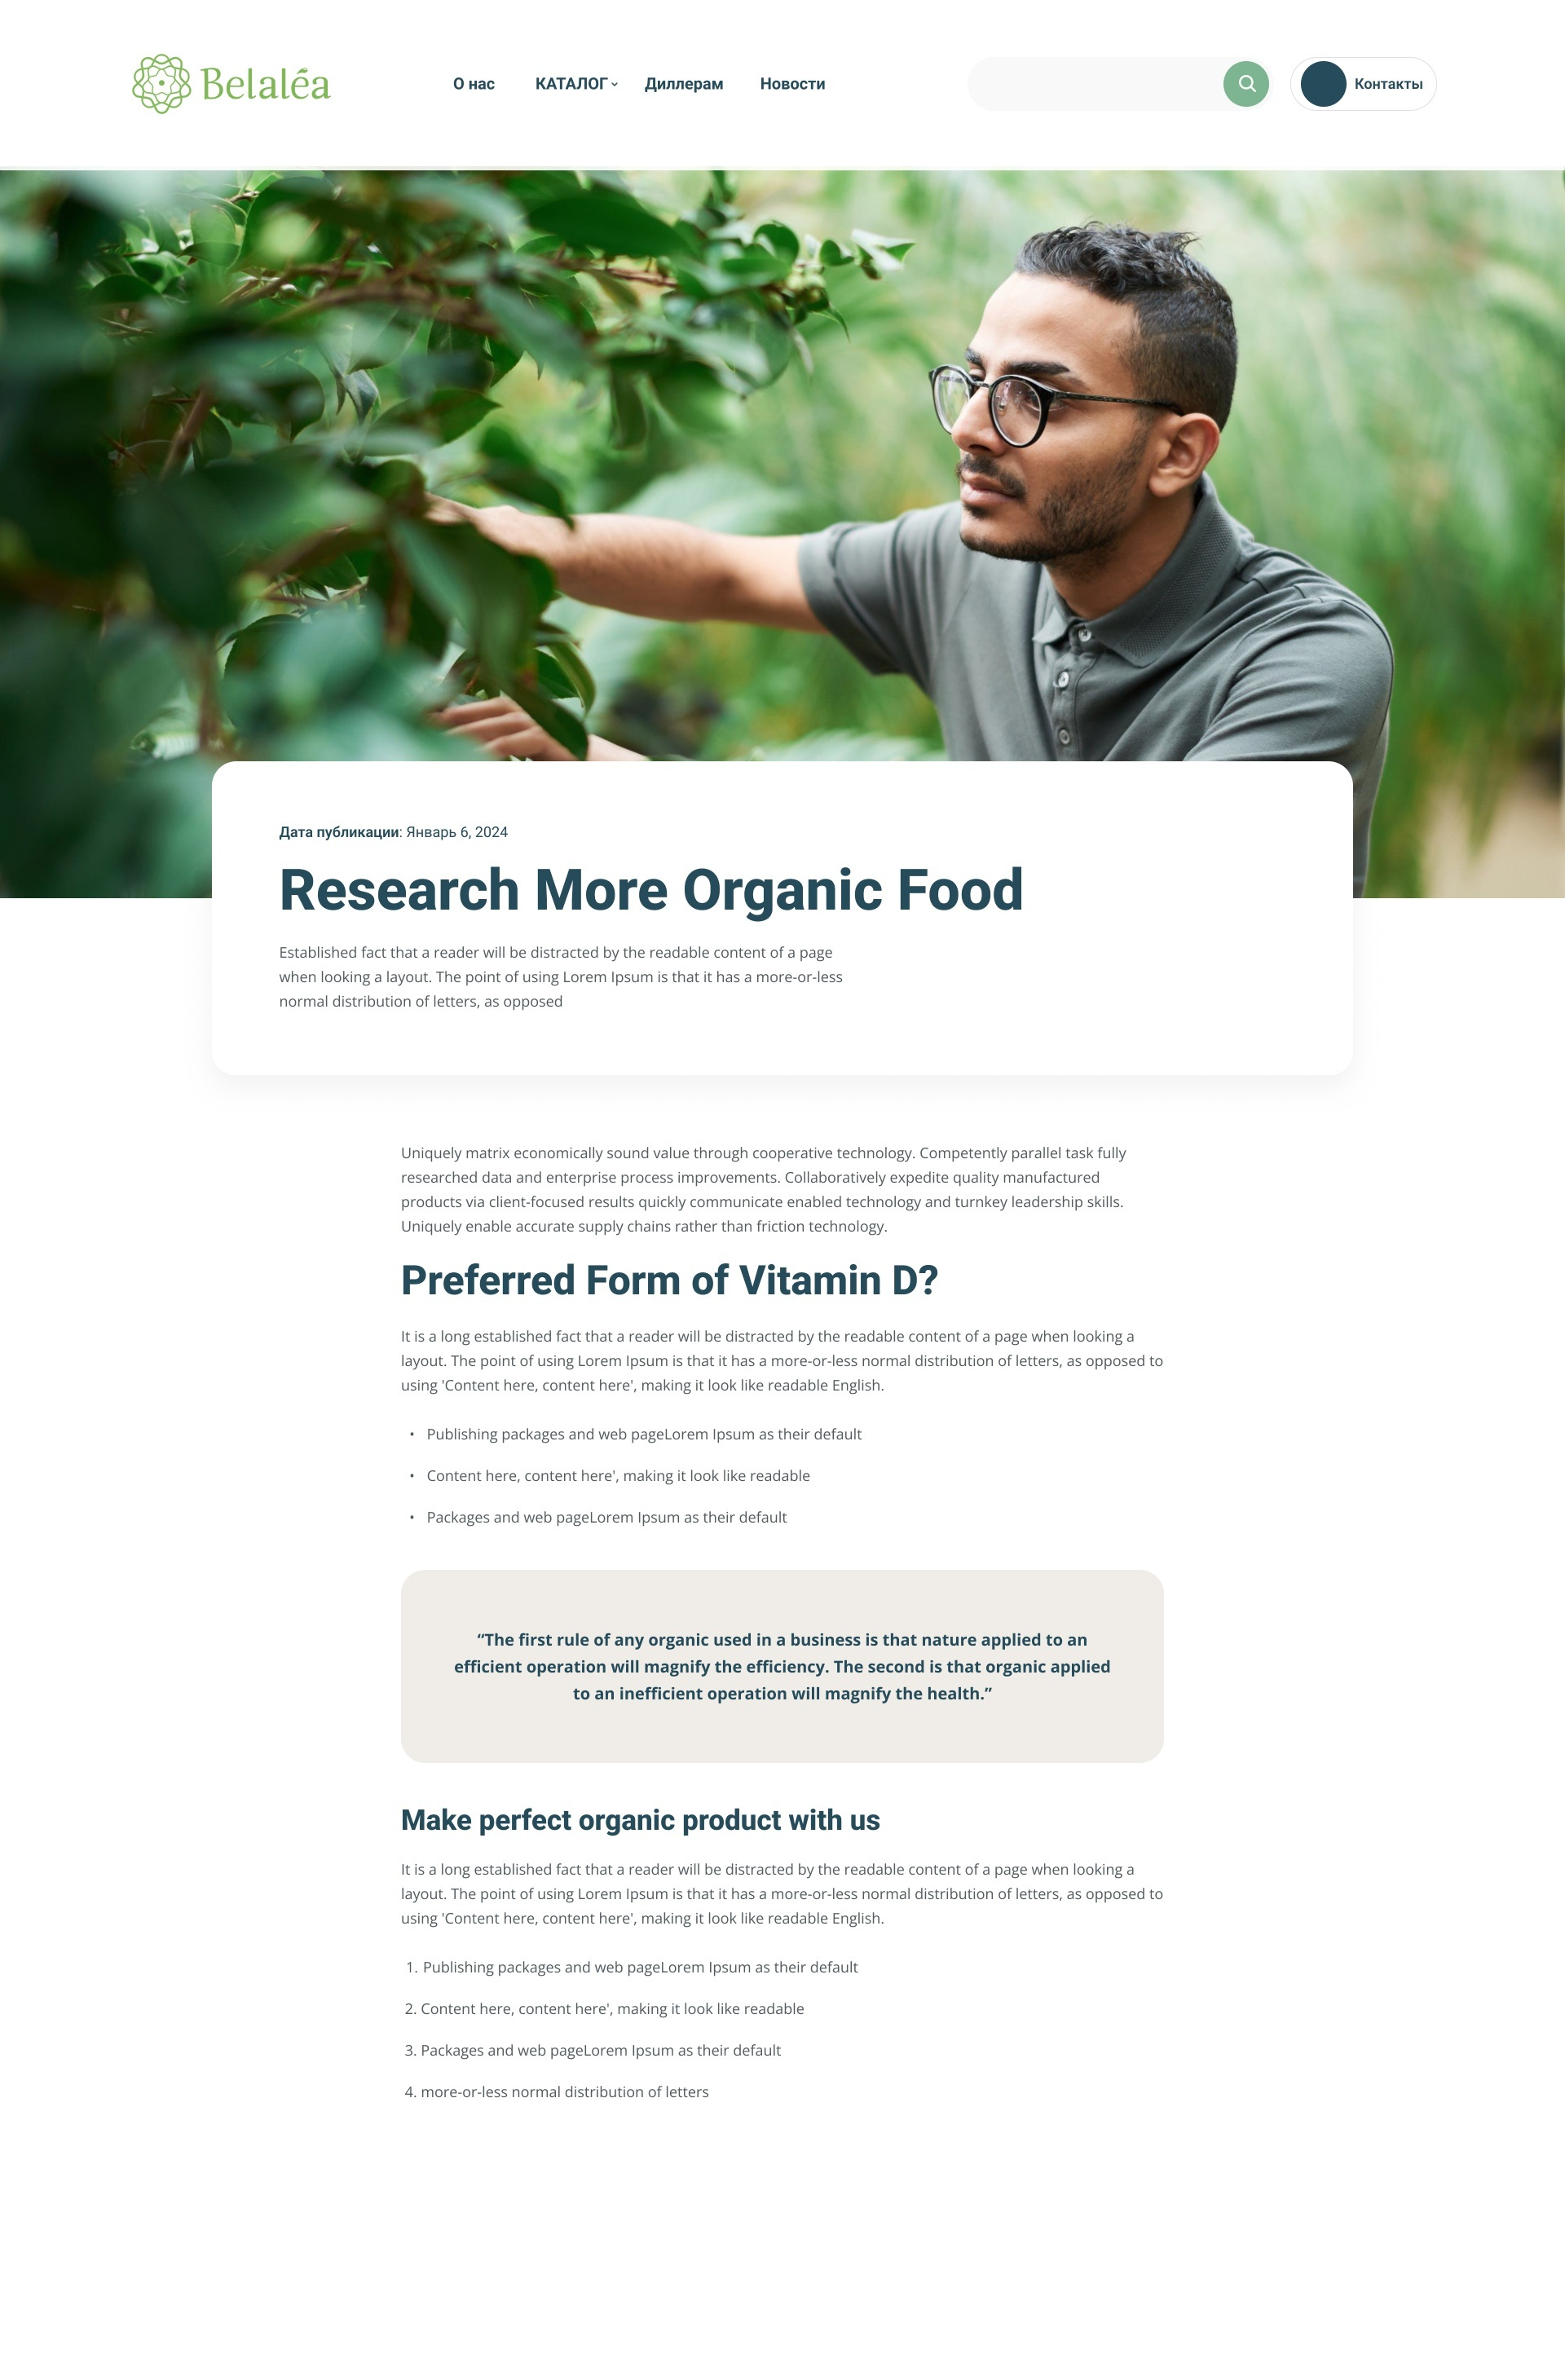
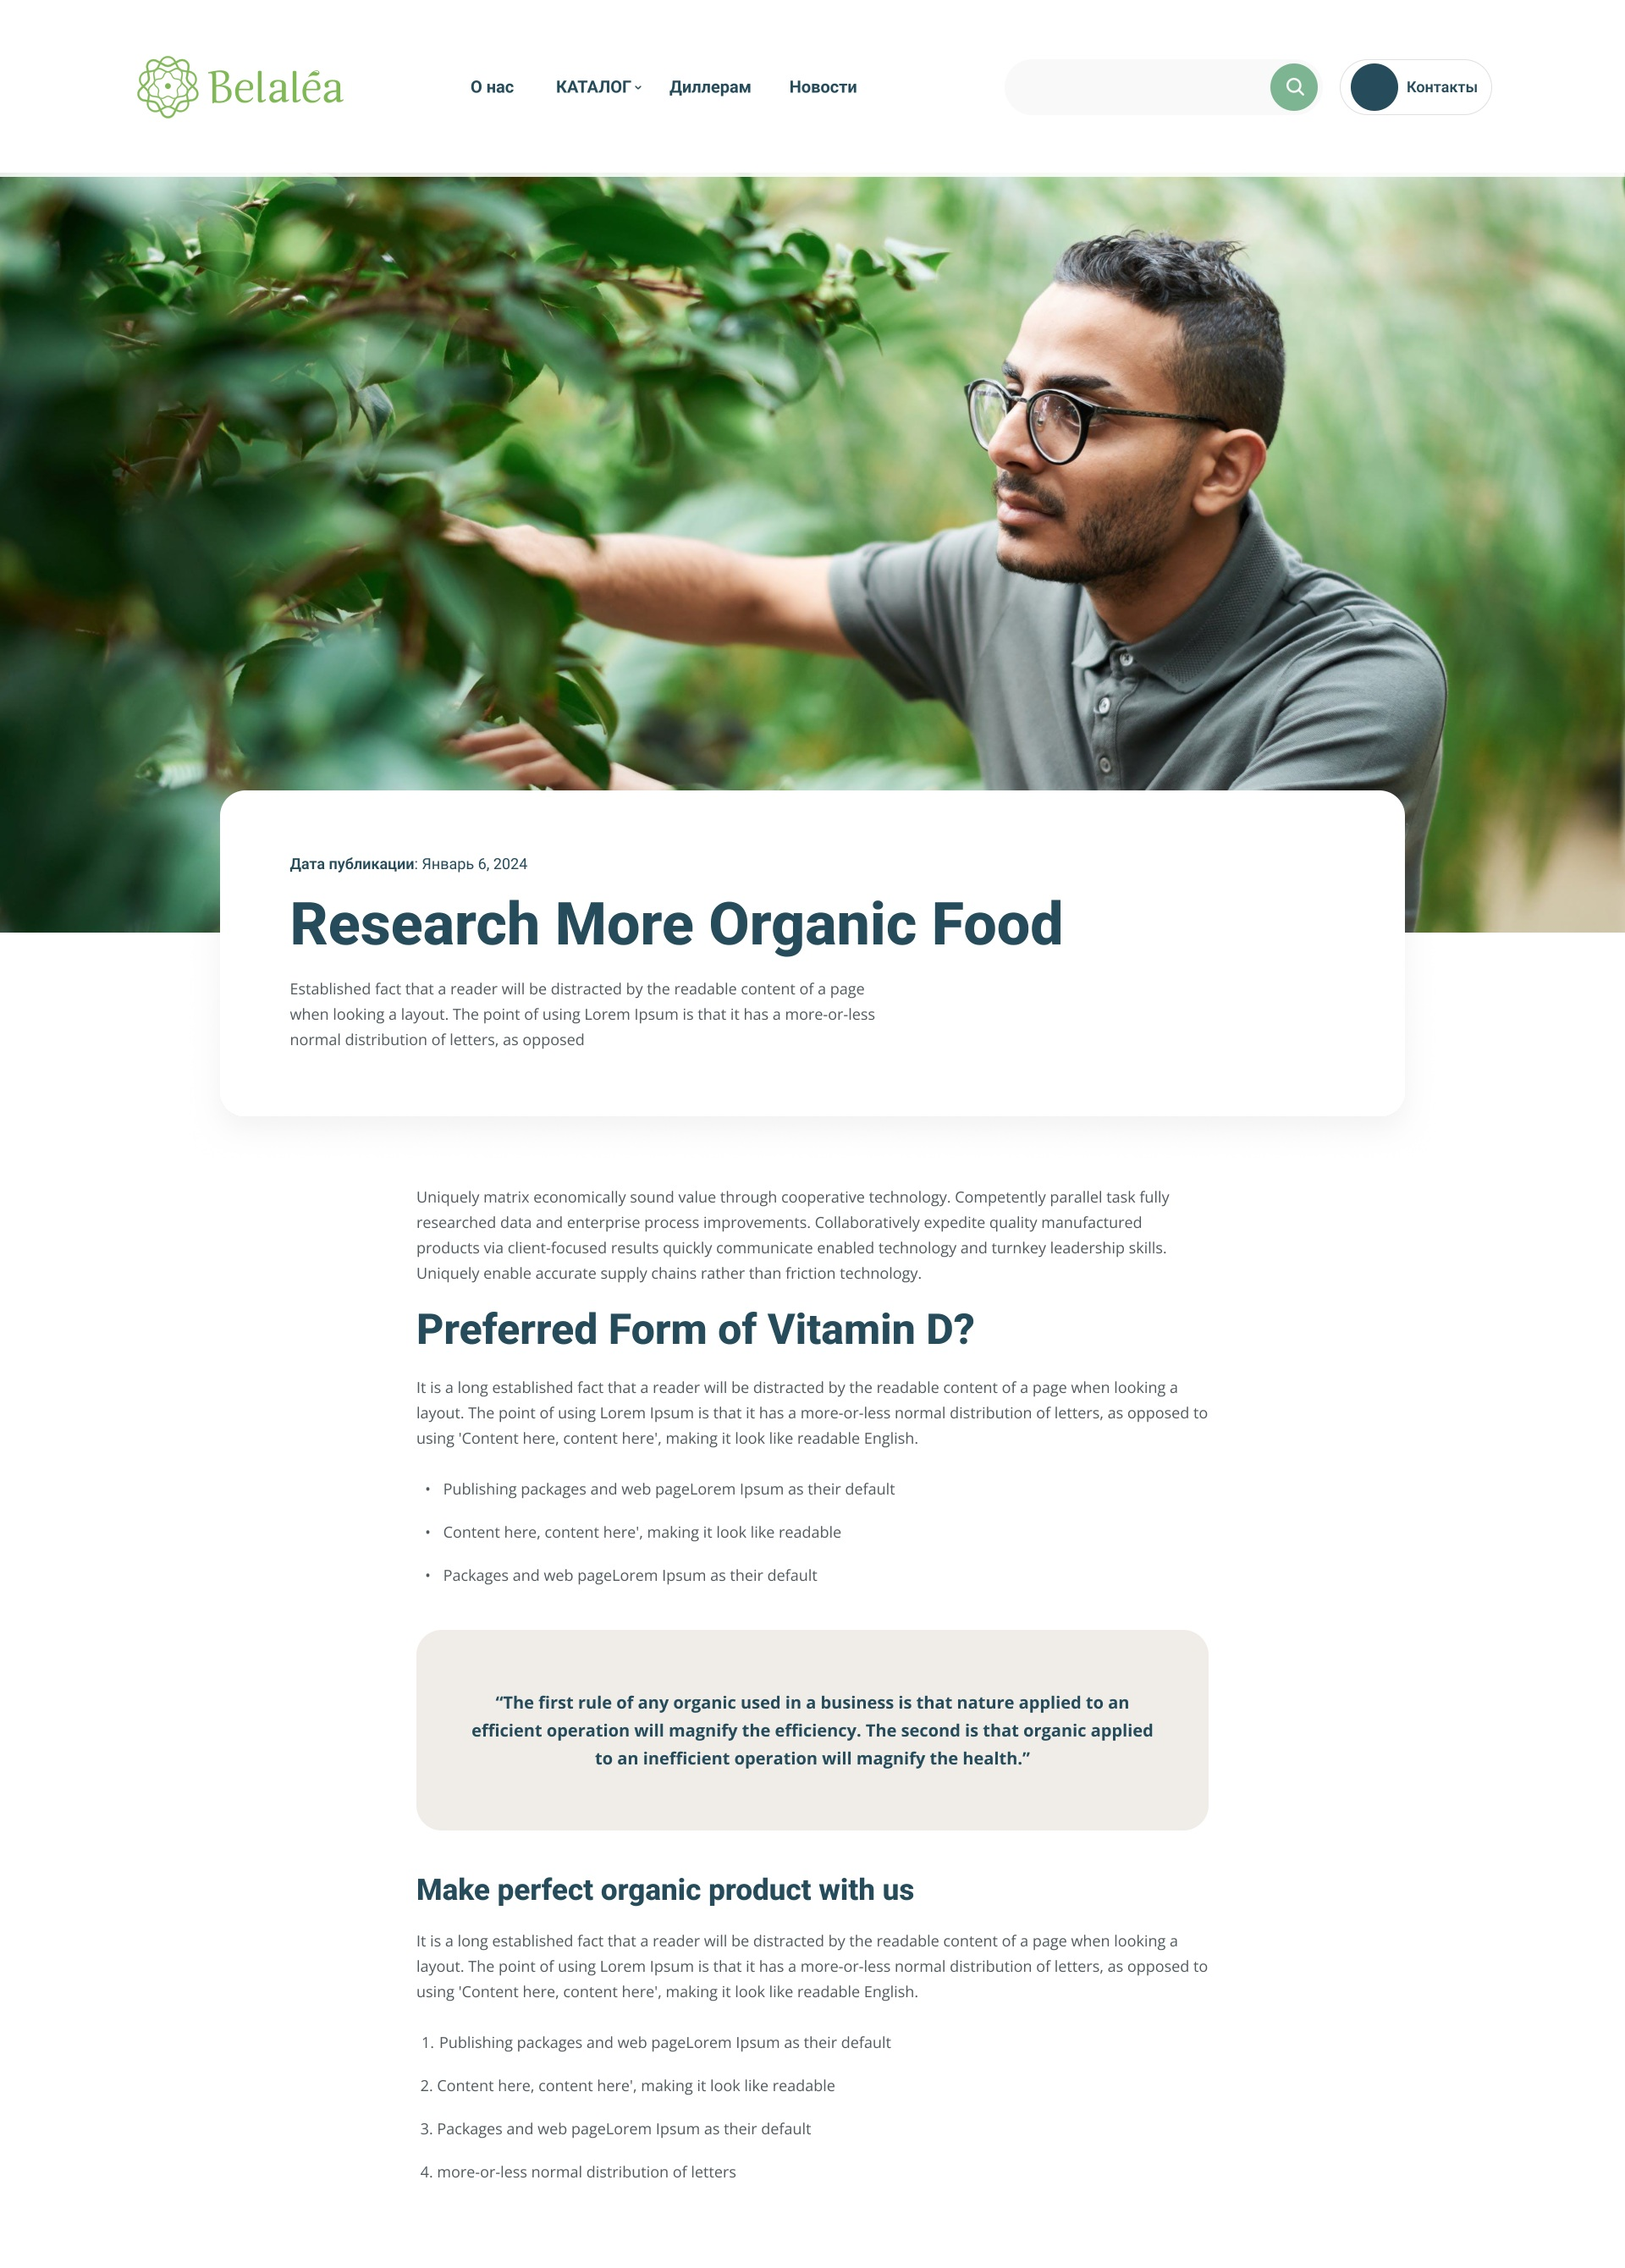
Tighten blog article footer spacing

Changed region(s): [[0.0, 0.0, 1.0, 0.7123], [0.25, 0.7433, 0.7188, 0.9601], [0.5938, 0.4646, 0.6562, 0.4955]]

diff --git a/src/components/BlogSinglePage.css b/src/components/BlogSinglePage.css
@@ -5,17 +5,16 @@
   justify-content: center;
   width: 100%;
   min-height: 100vh;
-  padding: 0 0 clamp(24px, 4vw, 64px);
+  padding: 0 0 clamp(16px, 2vw, 32px);
   overflow-x: hidden;
-  background: #f8faf7;
+  background: #ffffff;
 }
 
 .blog-single-page-image__canvas {
   position: relative;
   width: min(100%, 1920px);
-  aspect-ratio: 1920 / 2920;
+  aspect-ratio: 1920 / 2680;
   background: #ffffff;
-  box-shadow: 0 24px 80px rgba(24, 58, 45, 0.08);
 }
 
 .blog-single-page-image__newsletter,
@@ -27,13 +26,13 @@
 .blog-single-page-image__newsletter {
   width: min(calc(100% - 40px), 1400px);
   aspect-ratio: 1400 / 323;
-  margin-top: clamp(72px, 7vw, 140px);
+  margin-top: clamp(28px, 3.5vw, 56px);
 }
 
 .blog-single-page-image__footer {
   width: min(calc(100% - 40px), 1297px);
   aspect-ratio: 1297 / 343;
-  margin-top: clamp(80px, 7vw, 130px);
+  margin-top: clamp(36px, 4vw, 68px);
 }
 
 .blog-single-page-image__asset,

diff --git a/src/components/BlogSinglePage.jsx b/src/components/BlogSinglePage.jsx
@@ -4,7 +4,7 @@ import newsletterImage from '../assets/newsletter-section.jpg'
 import './BlogSinglePage.css'
 
 const IMAGE_WIDTH = 1920
-const IMAGE_HEIGHT = 2920
+const IMAGE_HEIGHT = 2680
 const NEWSLETTER_WIDTH = 1400
 const NEWSLETTER_HEIGHT = 323
 const FOOTER_WIDTH = 1297
@@ -18,7 +18,7 @@ const HOTSPOTS = [
   { label: 'Новости', target: 'blog-page', x: 930, y: 72, width: 120, height: 72 },
   { label: 'Контакты', target: 'contacts', x: 1582, y: 62, width: 190, height: 84 },
   { label: 'Основное изображение новости', target: 'blog-single-page', x: 0, y: 205, width: 1920, height: 720 },
-  { label: 'Содержание статьи', target: 'blog-single-page', x: 490, y: 1240, width: 950, height: 1680 },
+  { label: 'Содержание статьи', target: 'blog-single-page', x: 490, y: 1240, width: 950, height: 1320 },
 ]
 
 const NEWSLETTER_HOTSPOTS = [
@@ -73,7 +73,7 @@ function BlogSinglePage({ onNavigate }) {
           src={blogSingleImage}
           alt="Belaléa blog article page about organic food"
           width="1920"
-          height="2920"
+          height="2680"
           loading="eager"
           decoding="async"
           fetchPriority="high"